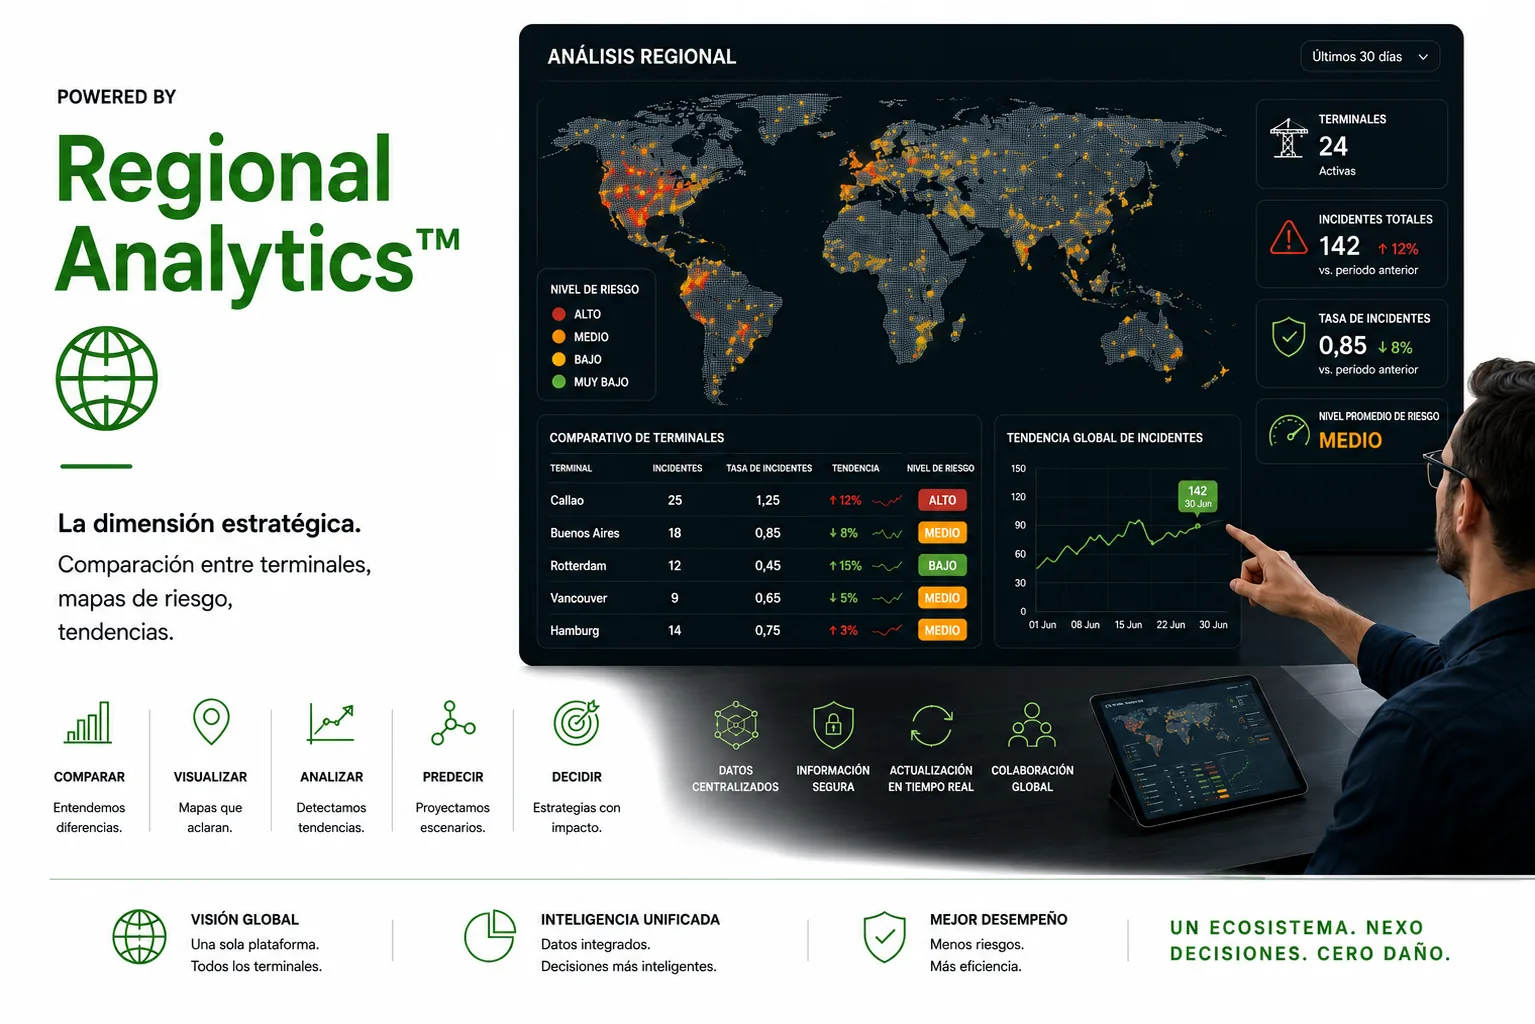
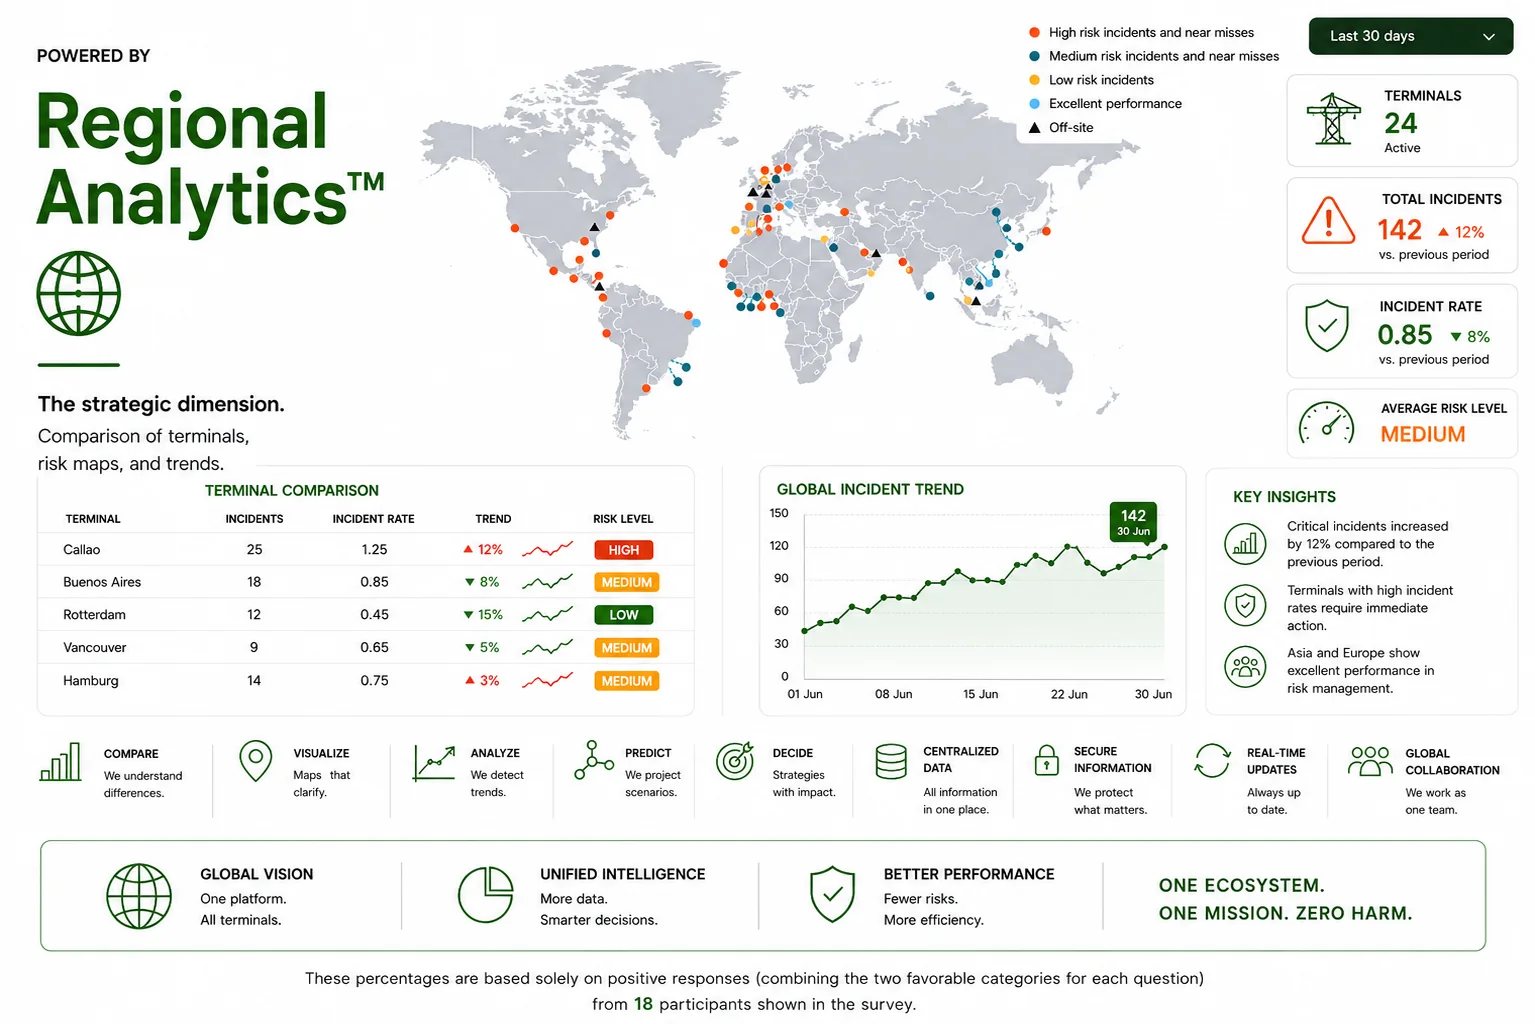
Add Regional Analytics executive plate viewer

diff --git a/script.js b/script.js
@@ -306,6 +306,10 @@ const executiveDimensionPlates = {
   Prevent: {
     image: "assets/prevent.webp",
     alt: "Prevent dimension overview: anticipation, signals and preventive action"
+  },
+  "Regional Analytics": {
+    image: "assets/regional-analytics.webp",
+    alt: "Regional Analytics dimension overview: terminal comparison, risk maps and global trends"
   }
 };
 